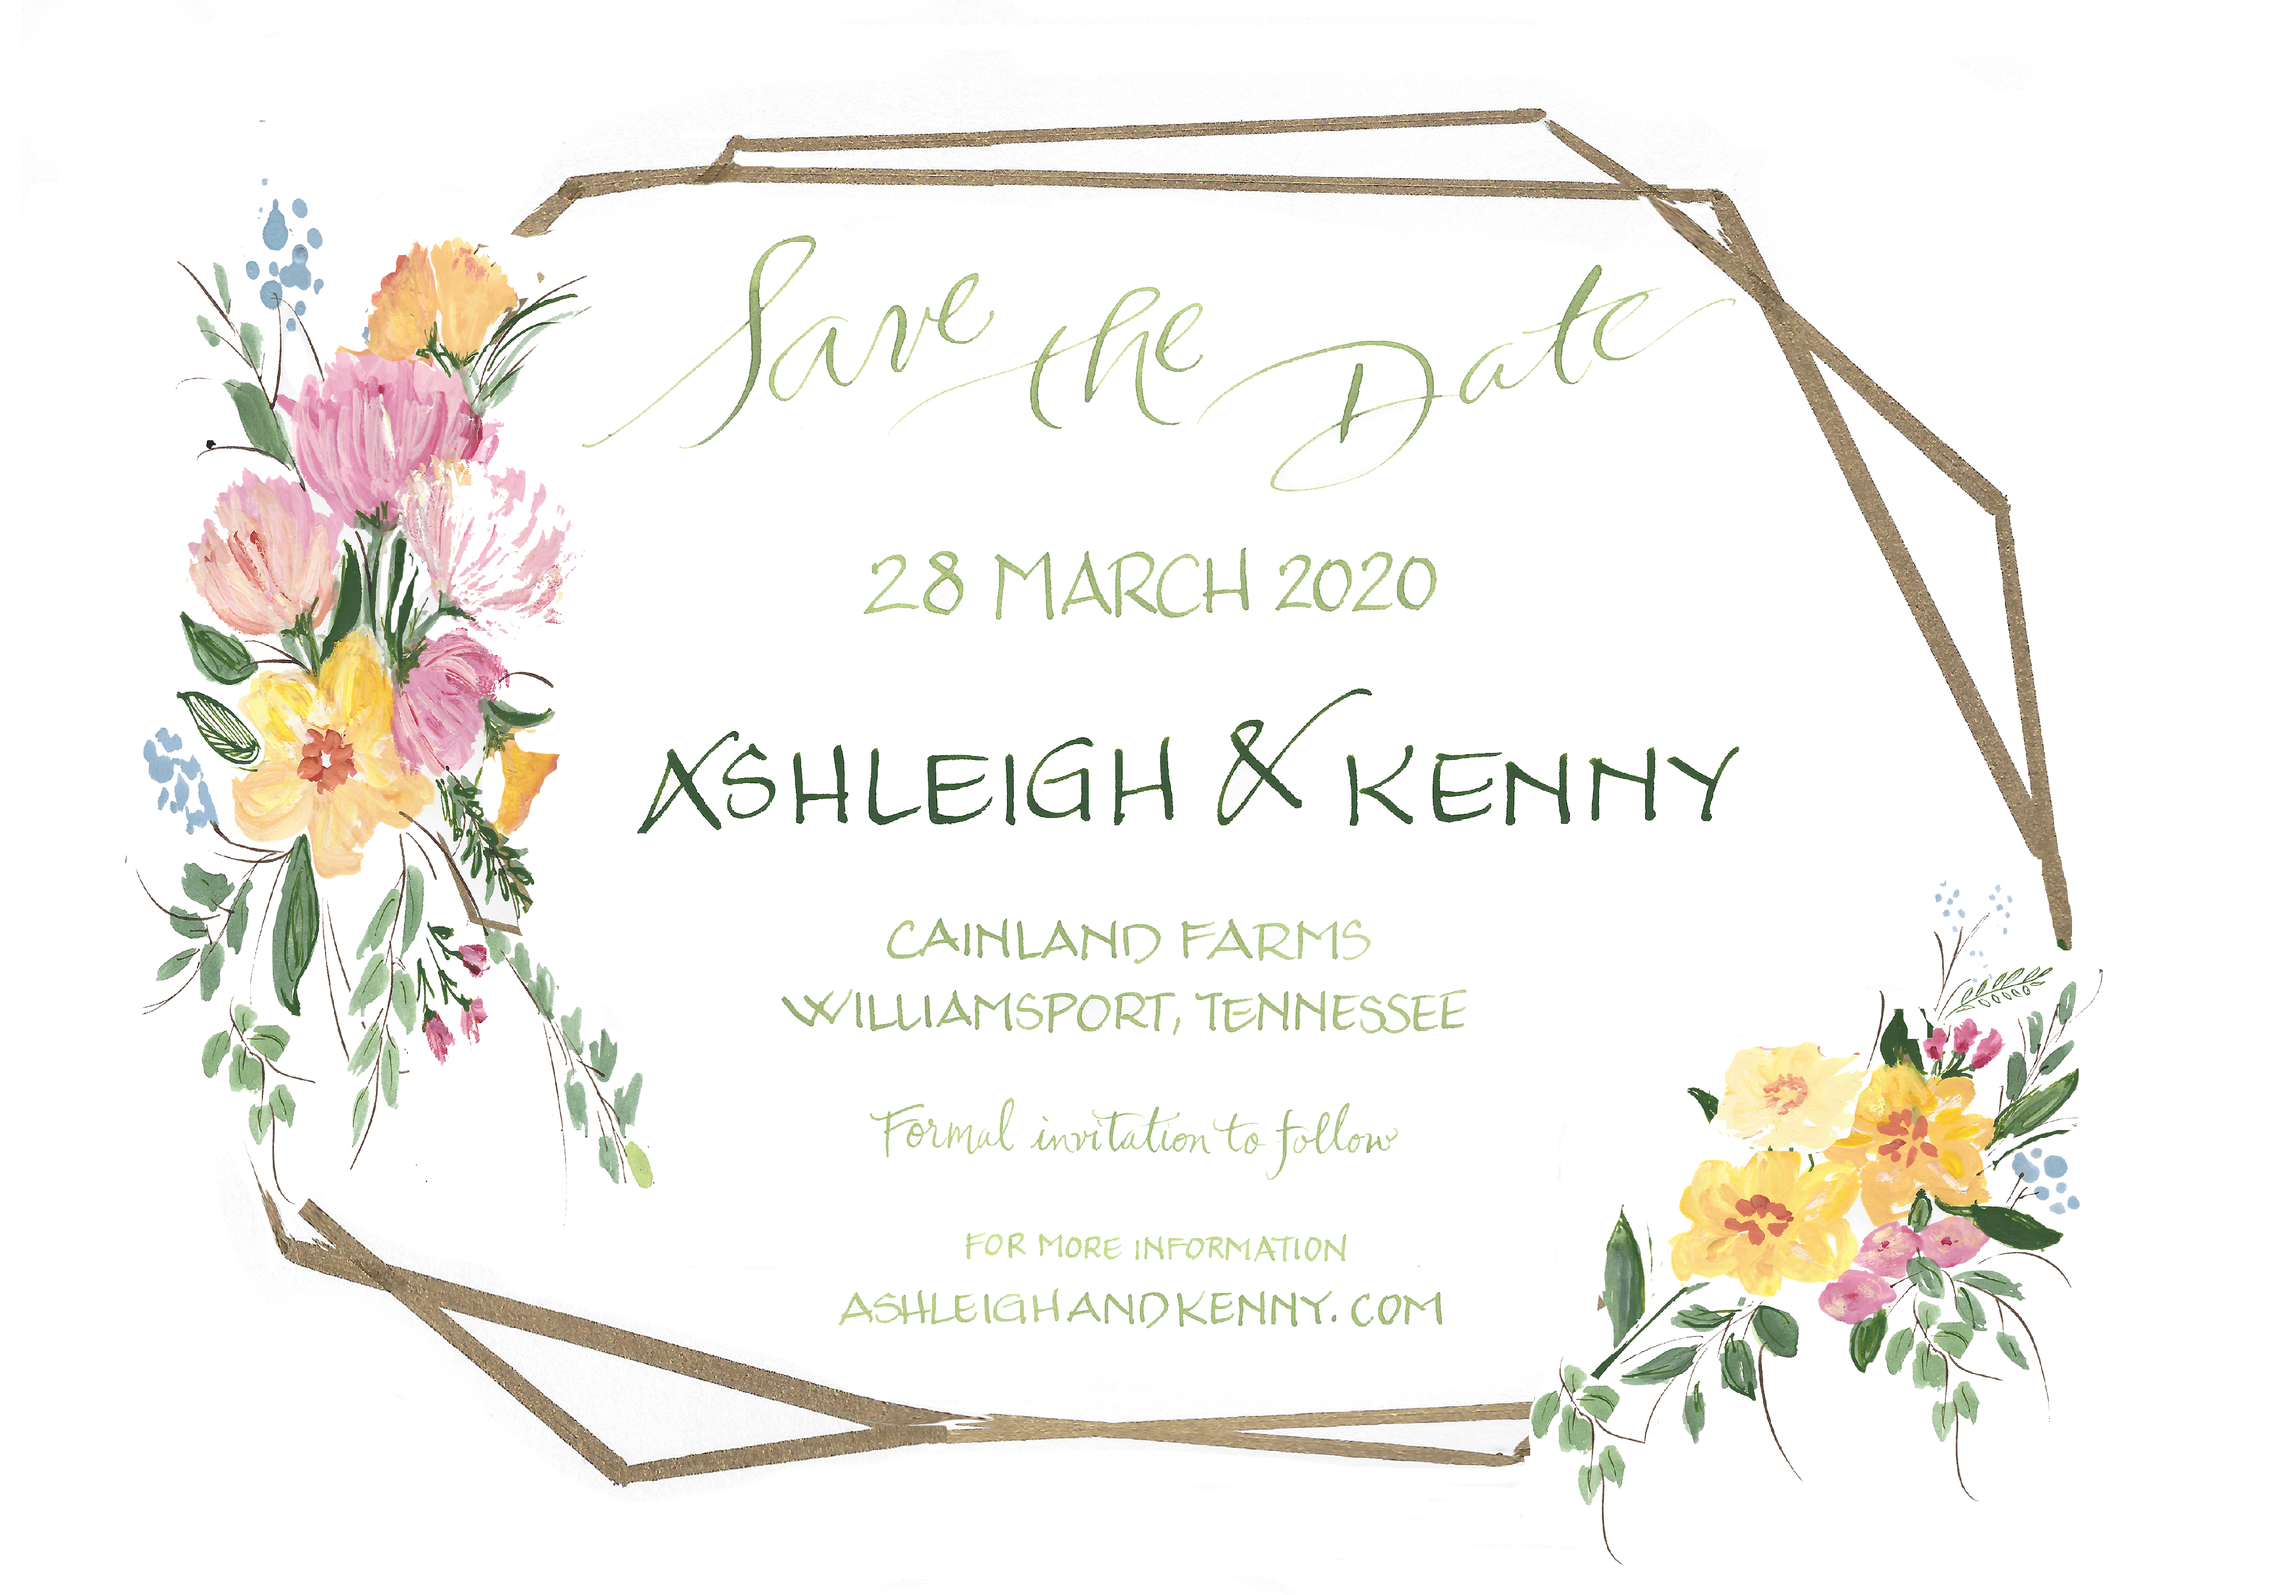
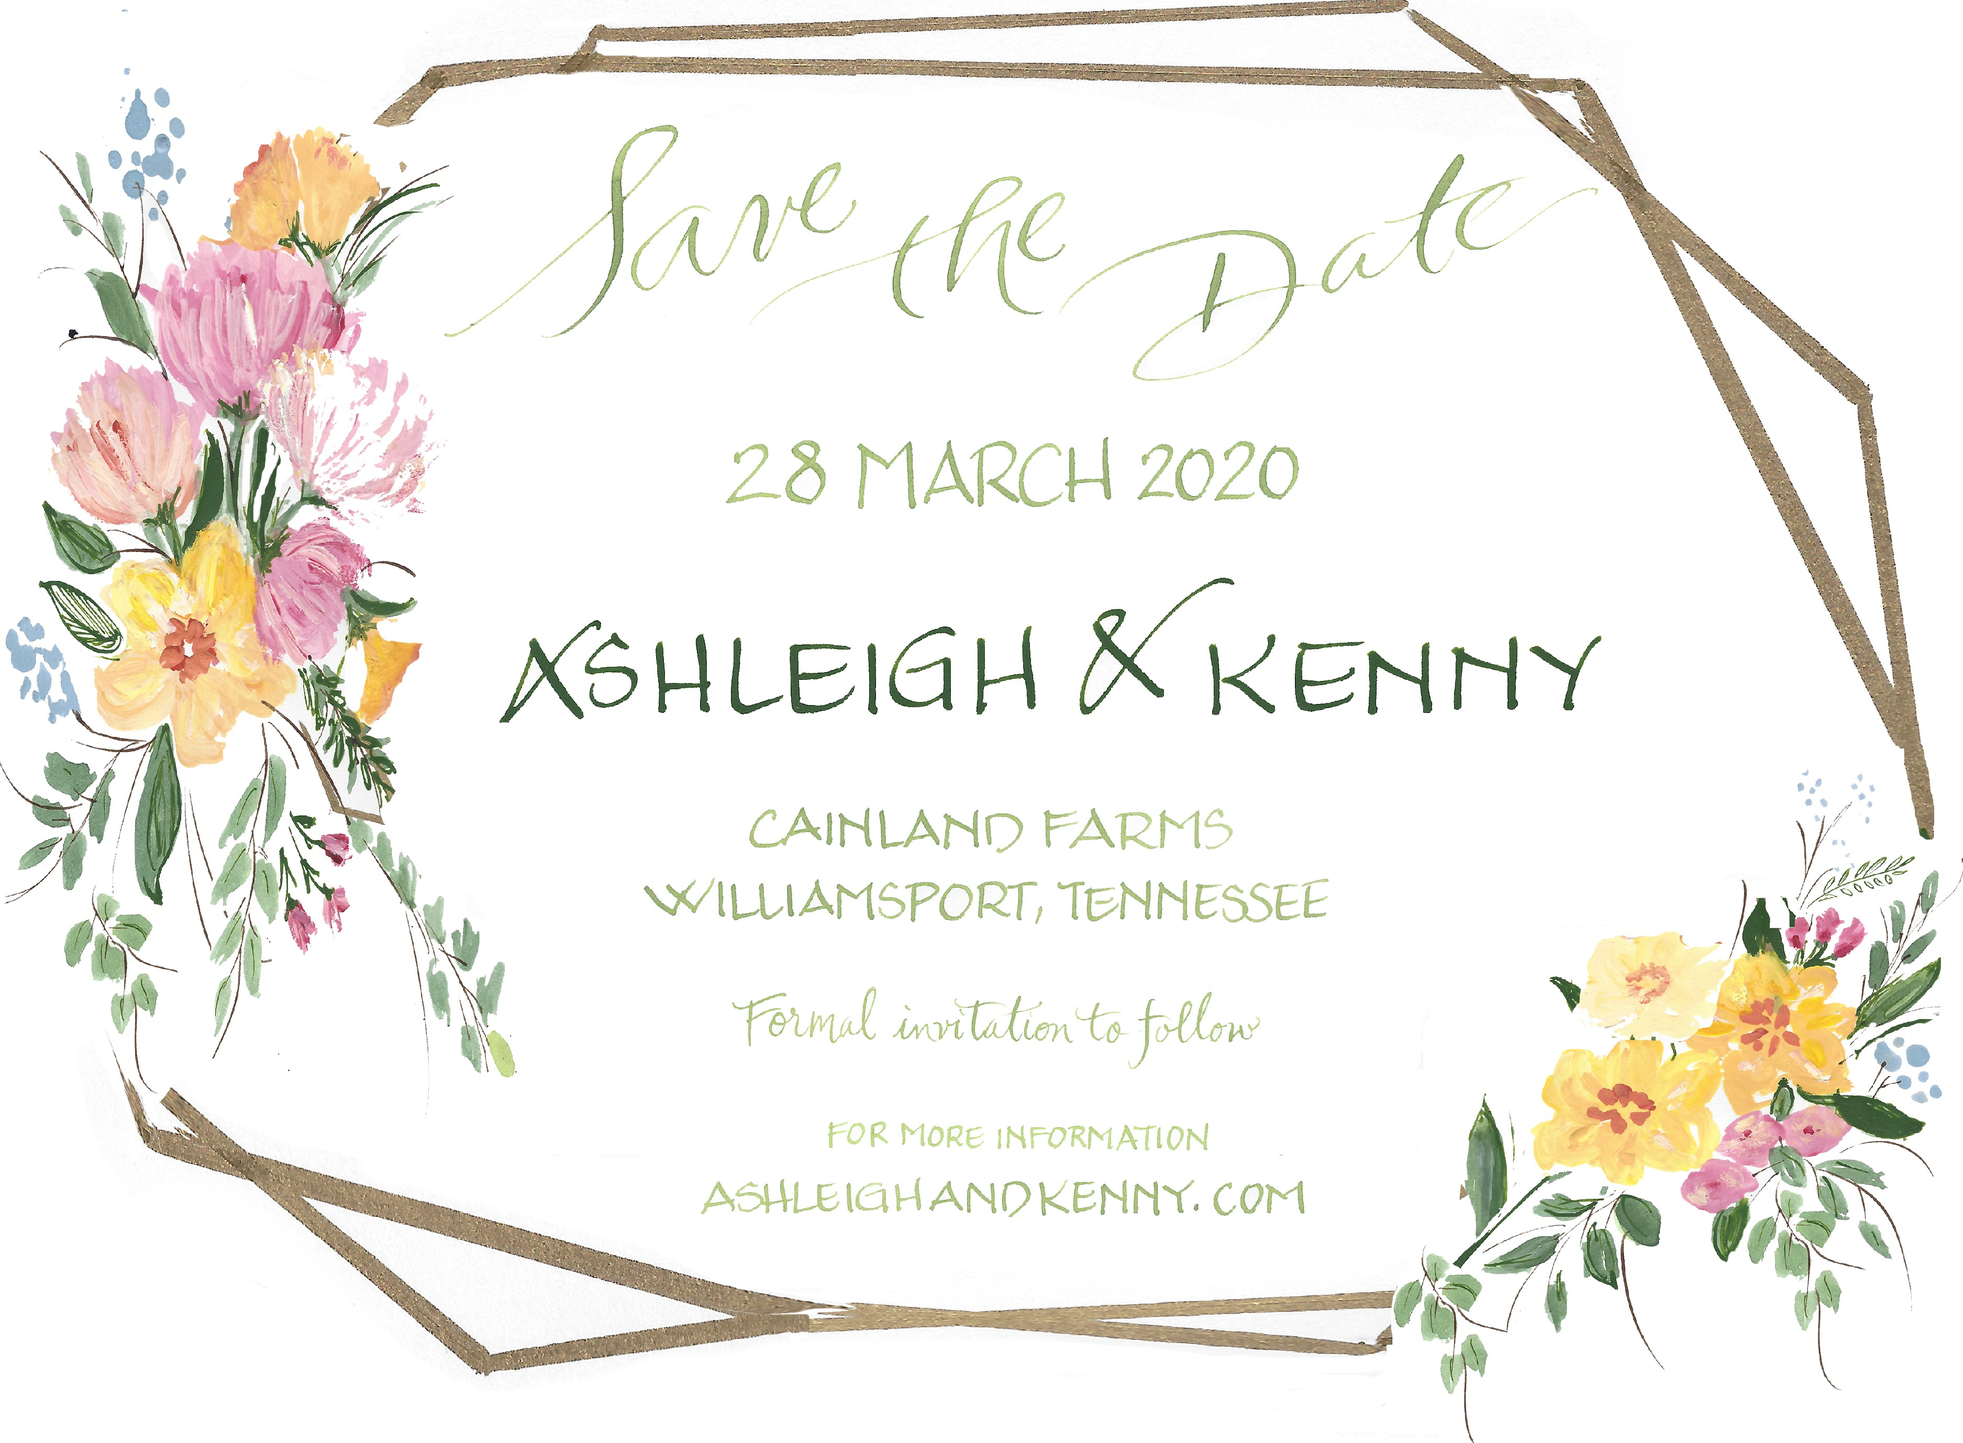
Added save the date image.

diff --git a/index.html b/index.html
@@ -72,6 +72,12 @@
 			<div id="details"></div>
 				<article id="main">
 
+					<section class="details-container">
+						<img id="save-the-date" src="./images/ashken.jpg" alt="Wedding save the date.">
+					</section>
+
+
+					<!--
 					<header class="special container">
 						<span class="icon solid fa-chart-bar"></span>
 						<h2>As this is my <strong>twentieth</strong> freebie for HTML5 UP
@@ -84,8 +90,10 @@
 						<br />
 						released for free under the <a href="http://html5up.net/license">Creative Commons Attribution 3.0</a> license. Have fun!</p>
 					</header>
+					-->
 
 					<!-- One -->
+						<!--
 						<section class="wrapper style2 container special-alt">
 							<div class="row gtr-50">
 								<div class="col-8 col-12-narrower">
@@ -115,8 +123,10 @@
 								</div>
 							</div>
 						</section>
+						-->
 
 					<!-- Two -->
+						<!--
 						<section class="wrapper style1 container special">
 							<div class="row">
 								<div class="col-4 col-12-narrower">
@@ -154,8 +164,10 @@
 								</div>
 							</div>
 						</section>
+						-->
 
 					<!-- Three -->
+						<!--
 						<section class="wrapper style3 container special">
 
 							<header class="major">
@@ -218,6 +230,7 @@
 							</footer>
 
 						</section>
+						-->
 
 				</article>
 

diff --git a/assets/css/main.css b/assets/css/main.css
@@ -3363,11 +3363,19 @@ input, select, textarea {
 		border-radius: 1em;
 	}
 
-	section.wrapper.style3.container.special {
+	header.special.container, section.special.container, section.special-alt.container {
 		display: none;
 	}
 
-	section.wrapper.style2.container.special-alt {
-		display: none;
+	article#main {
+		background-color: white;
 	}
 
+	.details-container {
+		text-align: center;
+	}
+
+	#save-the-date {
+		width: 60%;
+		z-index: -1;
+	}
